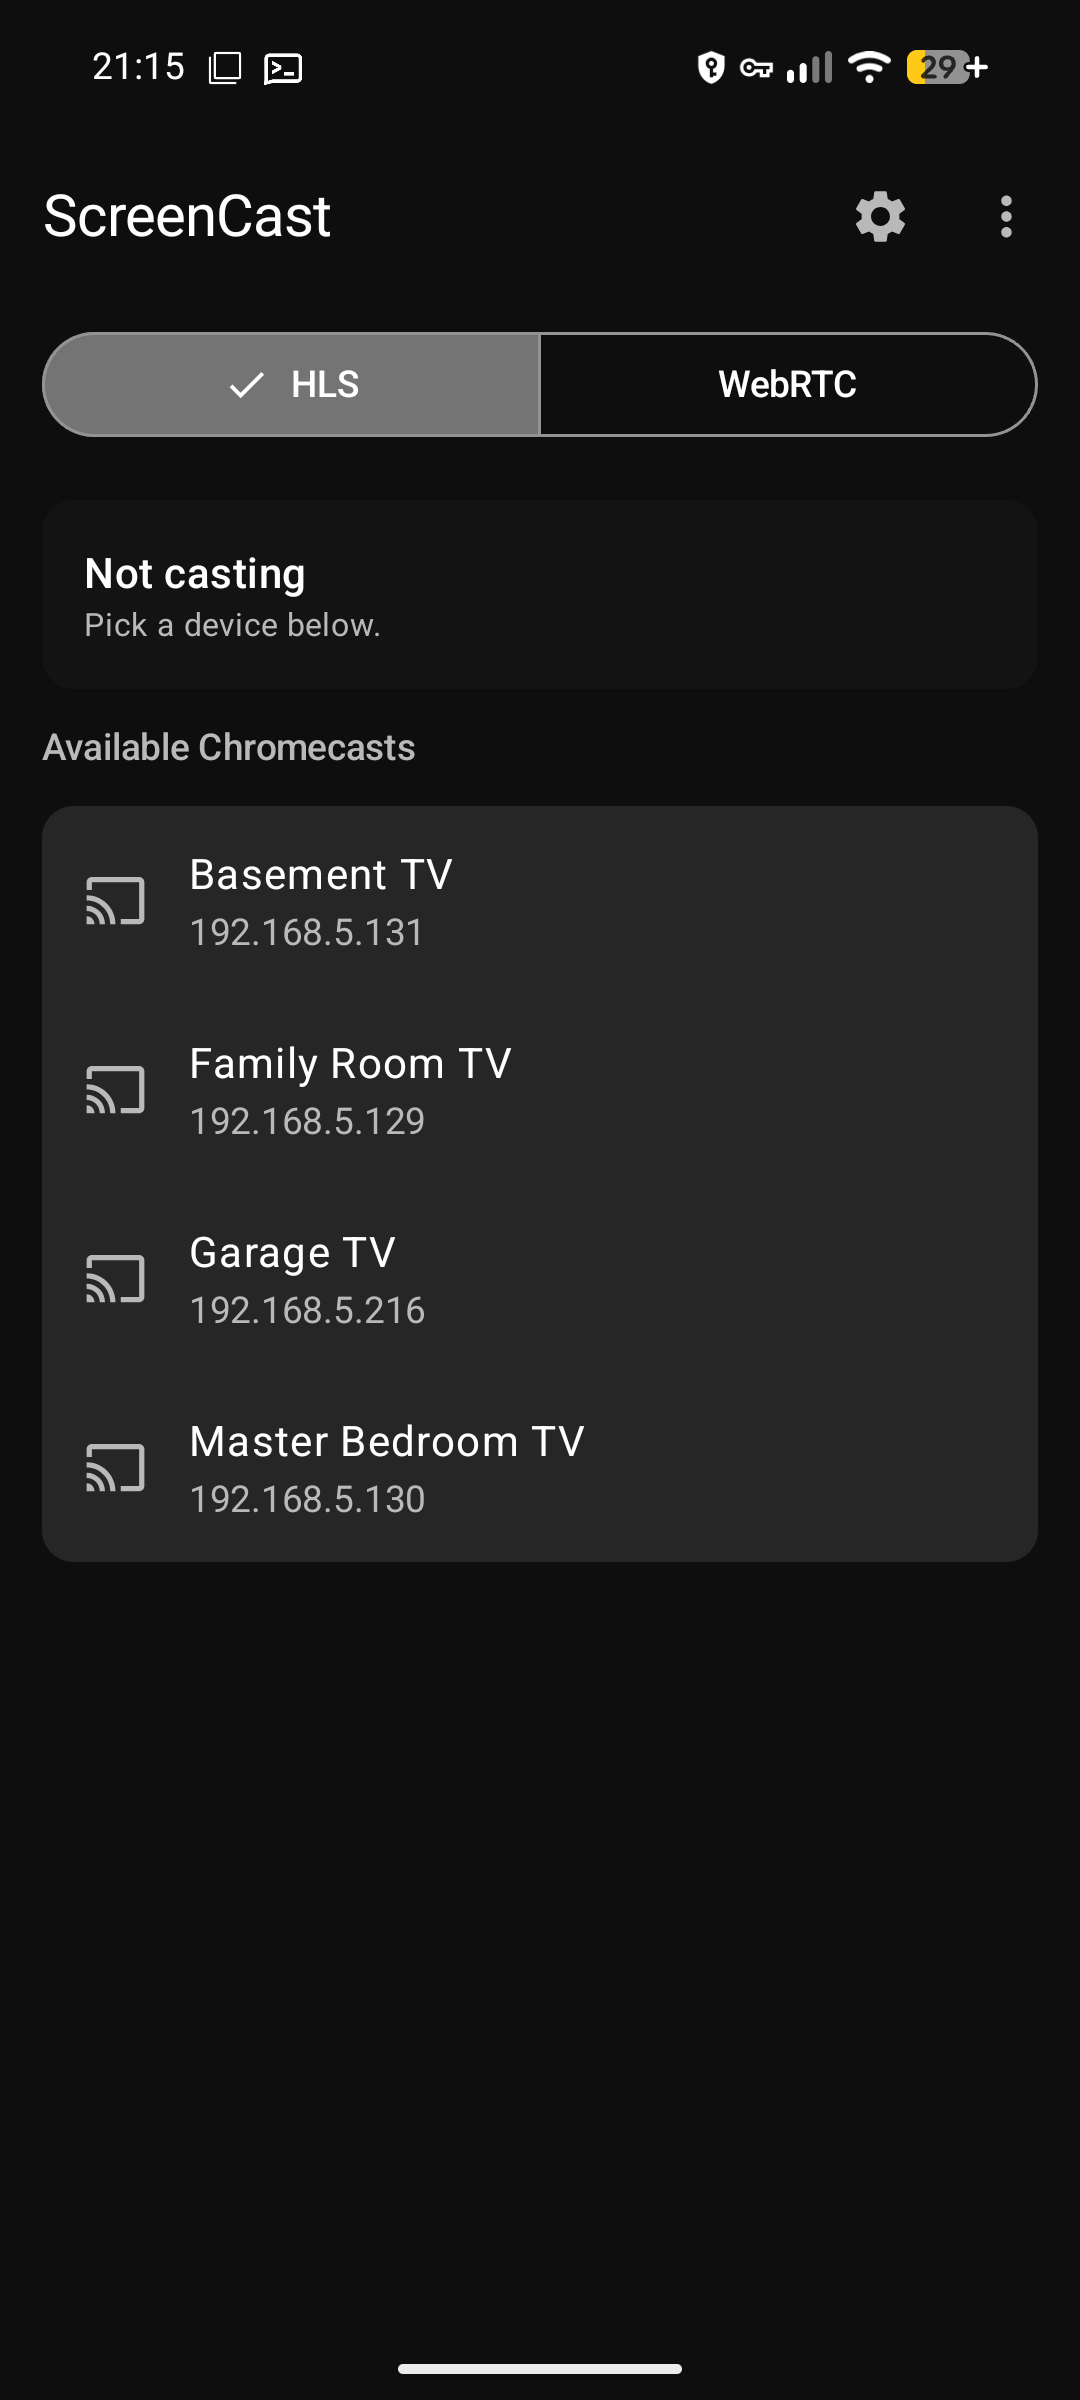
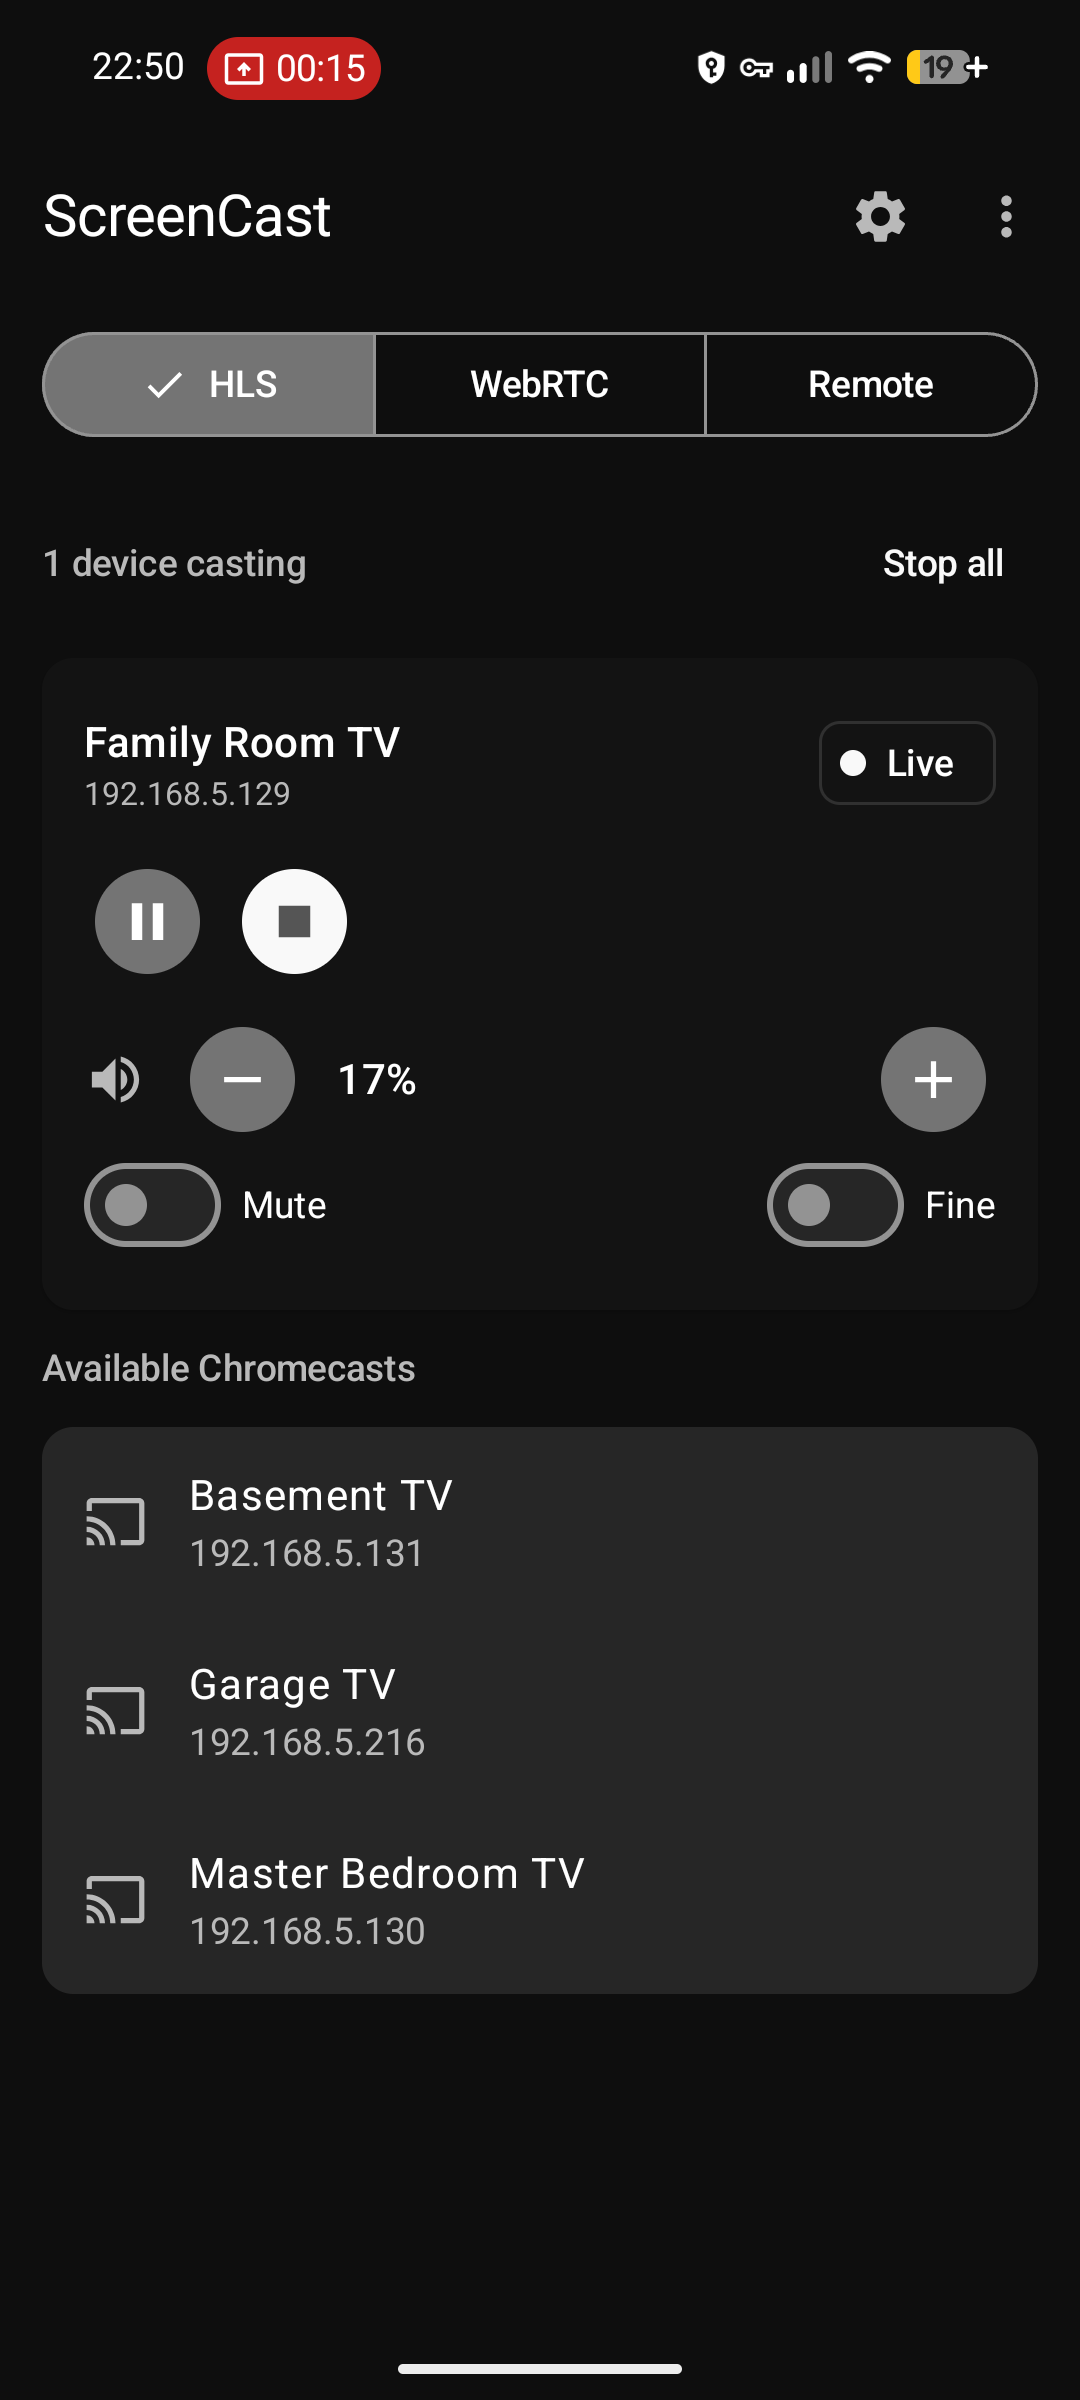
controls

diff --git a/app/src/main/java/io/github/ddagunts/screencast/ui/AndroidTvRemoteScreen.kt b/app/src/main/java/io/github/ddagunts/screencast/ui/AndroidTvRemoteScreen.kt
@@ -25,6 +25,7 @@ import androidx.compose.material.icons.automirrored.filled.VolumeDown
 import androidx.compose.material.icons.automirrored.filled.VolumeOff
 import androidx.compose.material.icons.automirrored.filled.VolumeUp
 import androidx.compose.material.icons.filled.FastForward
+import androidx.compose.material.icons.filled.FastRewind
 import androidx.compose.material.icons.filled.Home
 import androidx.compose.material.icons.filled.KeyboardArrowDown
 import androidx.compose.material.icons.filled.KeyboardArrowUp
@@ -394,16 +395,22 @@ private fun VolumeRow(volume: AndroidTvVolume, onKey: (AndroidTvKey) -> Unit) {
 
 @Composable
 private fun MediaRow(onKey: (AndroidTvKey) -> Unit) {
+    // Six transport buttons in physical-remote order: scrub-rewind,
+    // skip-prev, play/pause, stop, skip-next, scrub-forward. Earlier
+    // version had a duplicate "Stop" entry (Pause icon mislabeled) and
+    // used SpaceEvenly which jammed the buttons against the card edges.
+    // Modifier.weight on each child plus a centered SpaceEvenly gives an
+    // even distribution that fills the card width regardless of screen.
     Card(Modifier.fillMaxWidth()) {
         Row(
-            Modifier.padding(horizontal = 16.dp, vertical = 12.dp),
+            Modifier.padding(horizontal = 8.dp, vertical = 12.dp).fillMaxWidth(),
             horizontalArrangement = Arrangement.SpaceEvenly,
             verticalAlignment = Alignment.CenterVertically,
         ) {
+            SmallKeyButton(Icons.Filled.FastRewind, "Rewind", AndroidTvKey.MediaRewind, onKey)
             SmallKeyButton(Icons.Filled.SkipPrevious, "Previous", AndroidTvKey.MediaPrevious, onKey)
             SmallKeyButton(Icons.Filled.PlayArrow, "Play / pause", AndroidTvKey.MediaPlayPause, onKey)
-            SmallKeyButton(Icons.Filled.Pause, "Stop", AndroidTvKey.MediaStop, onKey)
-            SmallKeyButton(Icons.Filled.Stop, "Hard stop", AndroidTvKey.MediaStop, onKey)
+            SmallKeyButton(Icons.Filled.Stop, "Stop", AndroidTvKey.MediaStop, onKey)
             SmallKeyButton(Icons.Filled.SkipNext, "Next", AndroidTvKey.MediaNext, onKey)
             SmallKeyButton(Icons.Filled.FastForward, "Fast forward", AndroidTvKey.MediaFastForward, onKey)
         }

diff --git a/README.md b/README.md
@@ -1,13 +1,15 @@
 # ScreenCast
 
-An open-source Android app that casts the phone's screen to one or more Chromecast devices over the local Wi-Fi network, with synchronized playback across all connected receivers. Vibe-coded and unchecked.
+An open-source Android app that casts the phone's screen to one or more Chromecast devices over the local Wi-Fi network, with synchronized playback across all connected receivers. Also doubles as a remote control for Android TV / Google TV devices over the polo + Android TV Remote v2 protocols. Vibe-coded and unchecked.
 
 ## Screenshots
 
 <p>
-  <img src="fastlane/metadata/android/en-US/images/phoneScreenshots/01-cast-idle.png" width="240" alt="Main Cast screen with HLS/WebRTC mode toggle and discovered devices" />
+  <img src="fastlane/metadata/android/en-US/images/phoneScreenshots/01-cast-idle.png" width="240" alt="Main Cast screen with HLS/WebRTC/Remote mode toggle and discovered devices" />
   <img src="fastlane/metadata/android/en-US/images/phoneScreenshots/02-settings.png" width="240" alt="Settings: resolution, segment duration, playlist window, live-edge target" />
+  <img src="fastlane/metadata/android/en-US/images/phoneScreenshots/02-settings-2.png" width="240" alt="Settings continued: sync alignment + audio capture options" />
   <img src="fastlane/metadata/android/en-US/images/phoneScreenshots/03-webrtc-idle.png" width="240" alt="WebRTC mode — low-latency screen mirroring via a custom Cast receiver" />
+  <img src="fastlane/metadata/android/en-US/images/phoneScreenshots/04-remote-picker.png" width="240" alt="Remote mode — paired and discovered Android TV / Google TV devices" />
 </p>
 
 ## How it works
@@ -31,6 +33,16 @@ Tradeoffs versus HLS mode:
 - One Chromecast per cast (no parallel receivers).
 - No pause/play/seek, no volume UI (WebRTC has no concept of media transport).
 - The WebRTC Android library is a pre-built open-source AAR from [webrtc-sdk/android](https://github.com/webrtc-sdk/android) (BSD-3). Adds ~18 MB of native code across 4 ABIs. Building it from Chromium source ourselves is listed as a future decision in `CLAUDE.md`.
+
+## Remote control mode
+
+Switch the segmented control at the top to **Remote** to use the app as a remote for an Android TV / Google TV — the same role the Google Home app plays. No proprietary dependencies; the polo pairing handshake and the Android TV Remote v2 control channel are implemented in pure Kotlin against schemas vendored from [tronikos/androidtvremote2](https://github.com/tronikos/androidtvremote2).
+
+- **Discovery**: `NsdManager` finds TVs via mDNS (`_androidtvremote2._tcp.local`) — independent of the Chromecast discovery used by the cast modes.
+- **Pairing (one-time)**: TLS connect to port 6467, then a 6-step polo handshake (request → options → configuration → ack → secret → ack). The TV displays a 6-digit hex code on screen; you type it into the dialog on the phone. The app generates a per-install RSA-2048 client cert (no BouncyCastle — hand-rolled X.509 v3 DER) and stores it under [androidx.security `EncryptedFile`](https://developer.android.com/topic/security/data) with a Keystore-derived AES-256-GCM master key. The TV's server cert SHA-256 is pinned in app-private SharedPreferences for subsequent connections.
+- **Control channel**: mTLS to port 6466 using the paired client cert + server pin. Sends `RemoteKeyInject` for D-pad / nav / media-transport keys, replies to the TV's keepalive `RemotePingRequest` from inside the read loop, and mirrors `RemoteSetVolumeLevel` pushes into a Compose `StateFlow` so the volume readout follows physical-remote presses live.
+- **Settings shortcut**: maps to long-press Home (which on Sony BRAVIA opens the Action Menu where Settings lives), since `KEYCODE_SETTINGS` itself goes unbound on Sony firmware.
+- **Re-pair after a TV factory reset**: tap **Forget** on the row in the Remote picker, then re-pair from scratch — the TV's new server cert is pinned on the new SECRET_ACK exchange.
 
 ## Requirements
 
@@ -71,12 +83,14 @@ Then `./gradlew assembleRelease`. Without credentials `assembleRelease` still ru
 
 ```
 app/src/main/java/io/github/ddagunts/screencast/
-├── cast/     # Cast V2 protocol (discovery, TLS channel, session FSM)
-├── media/    # HLS mode: screen capture, H.264 encode, HLS muxer, Ktor server
-├── webrtc/   # WebRTC mode: PeerConnection, signaling over custom Cast namespace
-├── ui/       # Jetpack Compose UI + ViewModels (one per mode)
-└── util/     # Networking, logging
-receiver/     # WebRTC custom Cast receiver (static HTML/JS)
+├── cast/      # Cast V2 protocol (discovery, TLS channel, session FSM)
+├── media/     # HLS mode: screen capture, H.264 encode, HLS muxer, Ktor server
+├── webrtc/    # WebRTC mode: PeerConnection, signaling over custom Cast namespace
+├── androidtv/ # Remote mode: polo pairing + ATV Remote v2 control channel
+├── ui/        # Jetpack Compose UI + ViewModels (one per mode)
+└── util/      # Networking, logging
+app/src/main/proto/   # Vendored polo + remotemessage .proto schemas (spec only — codec is hand-rolled)
+receiver/             # WebRTC custom Cast receiver (static HTML/JS)
 ```
 
 ## License
